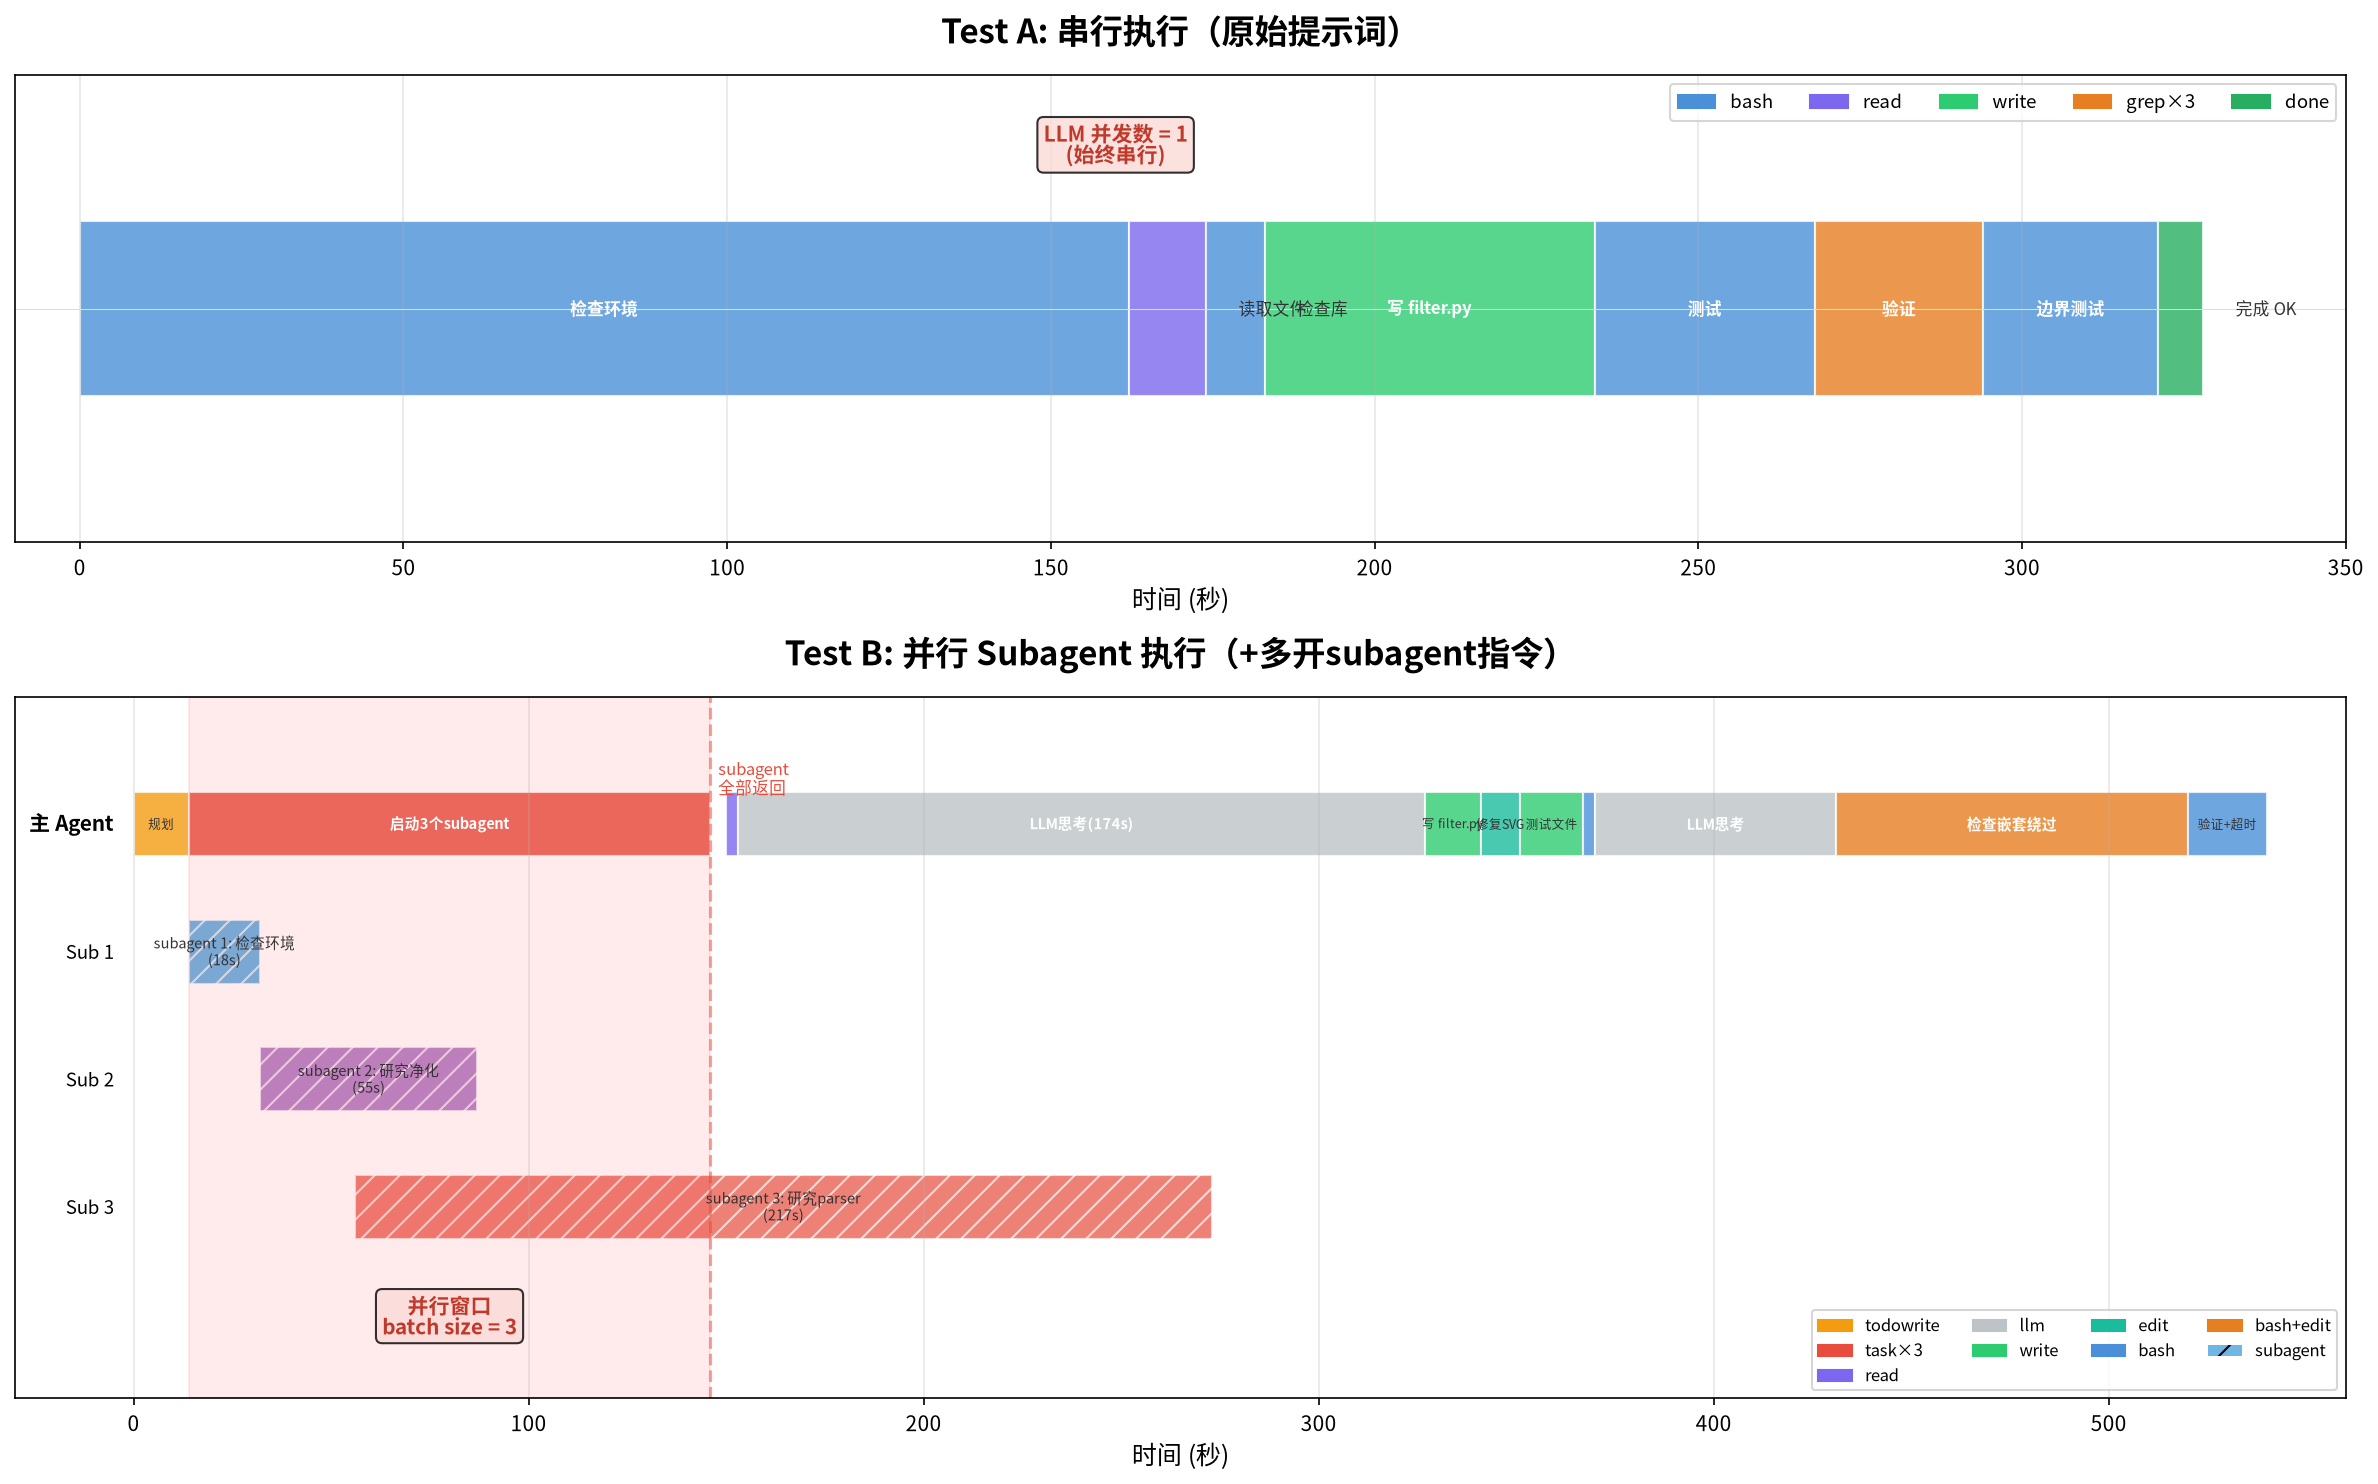
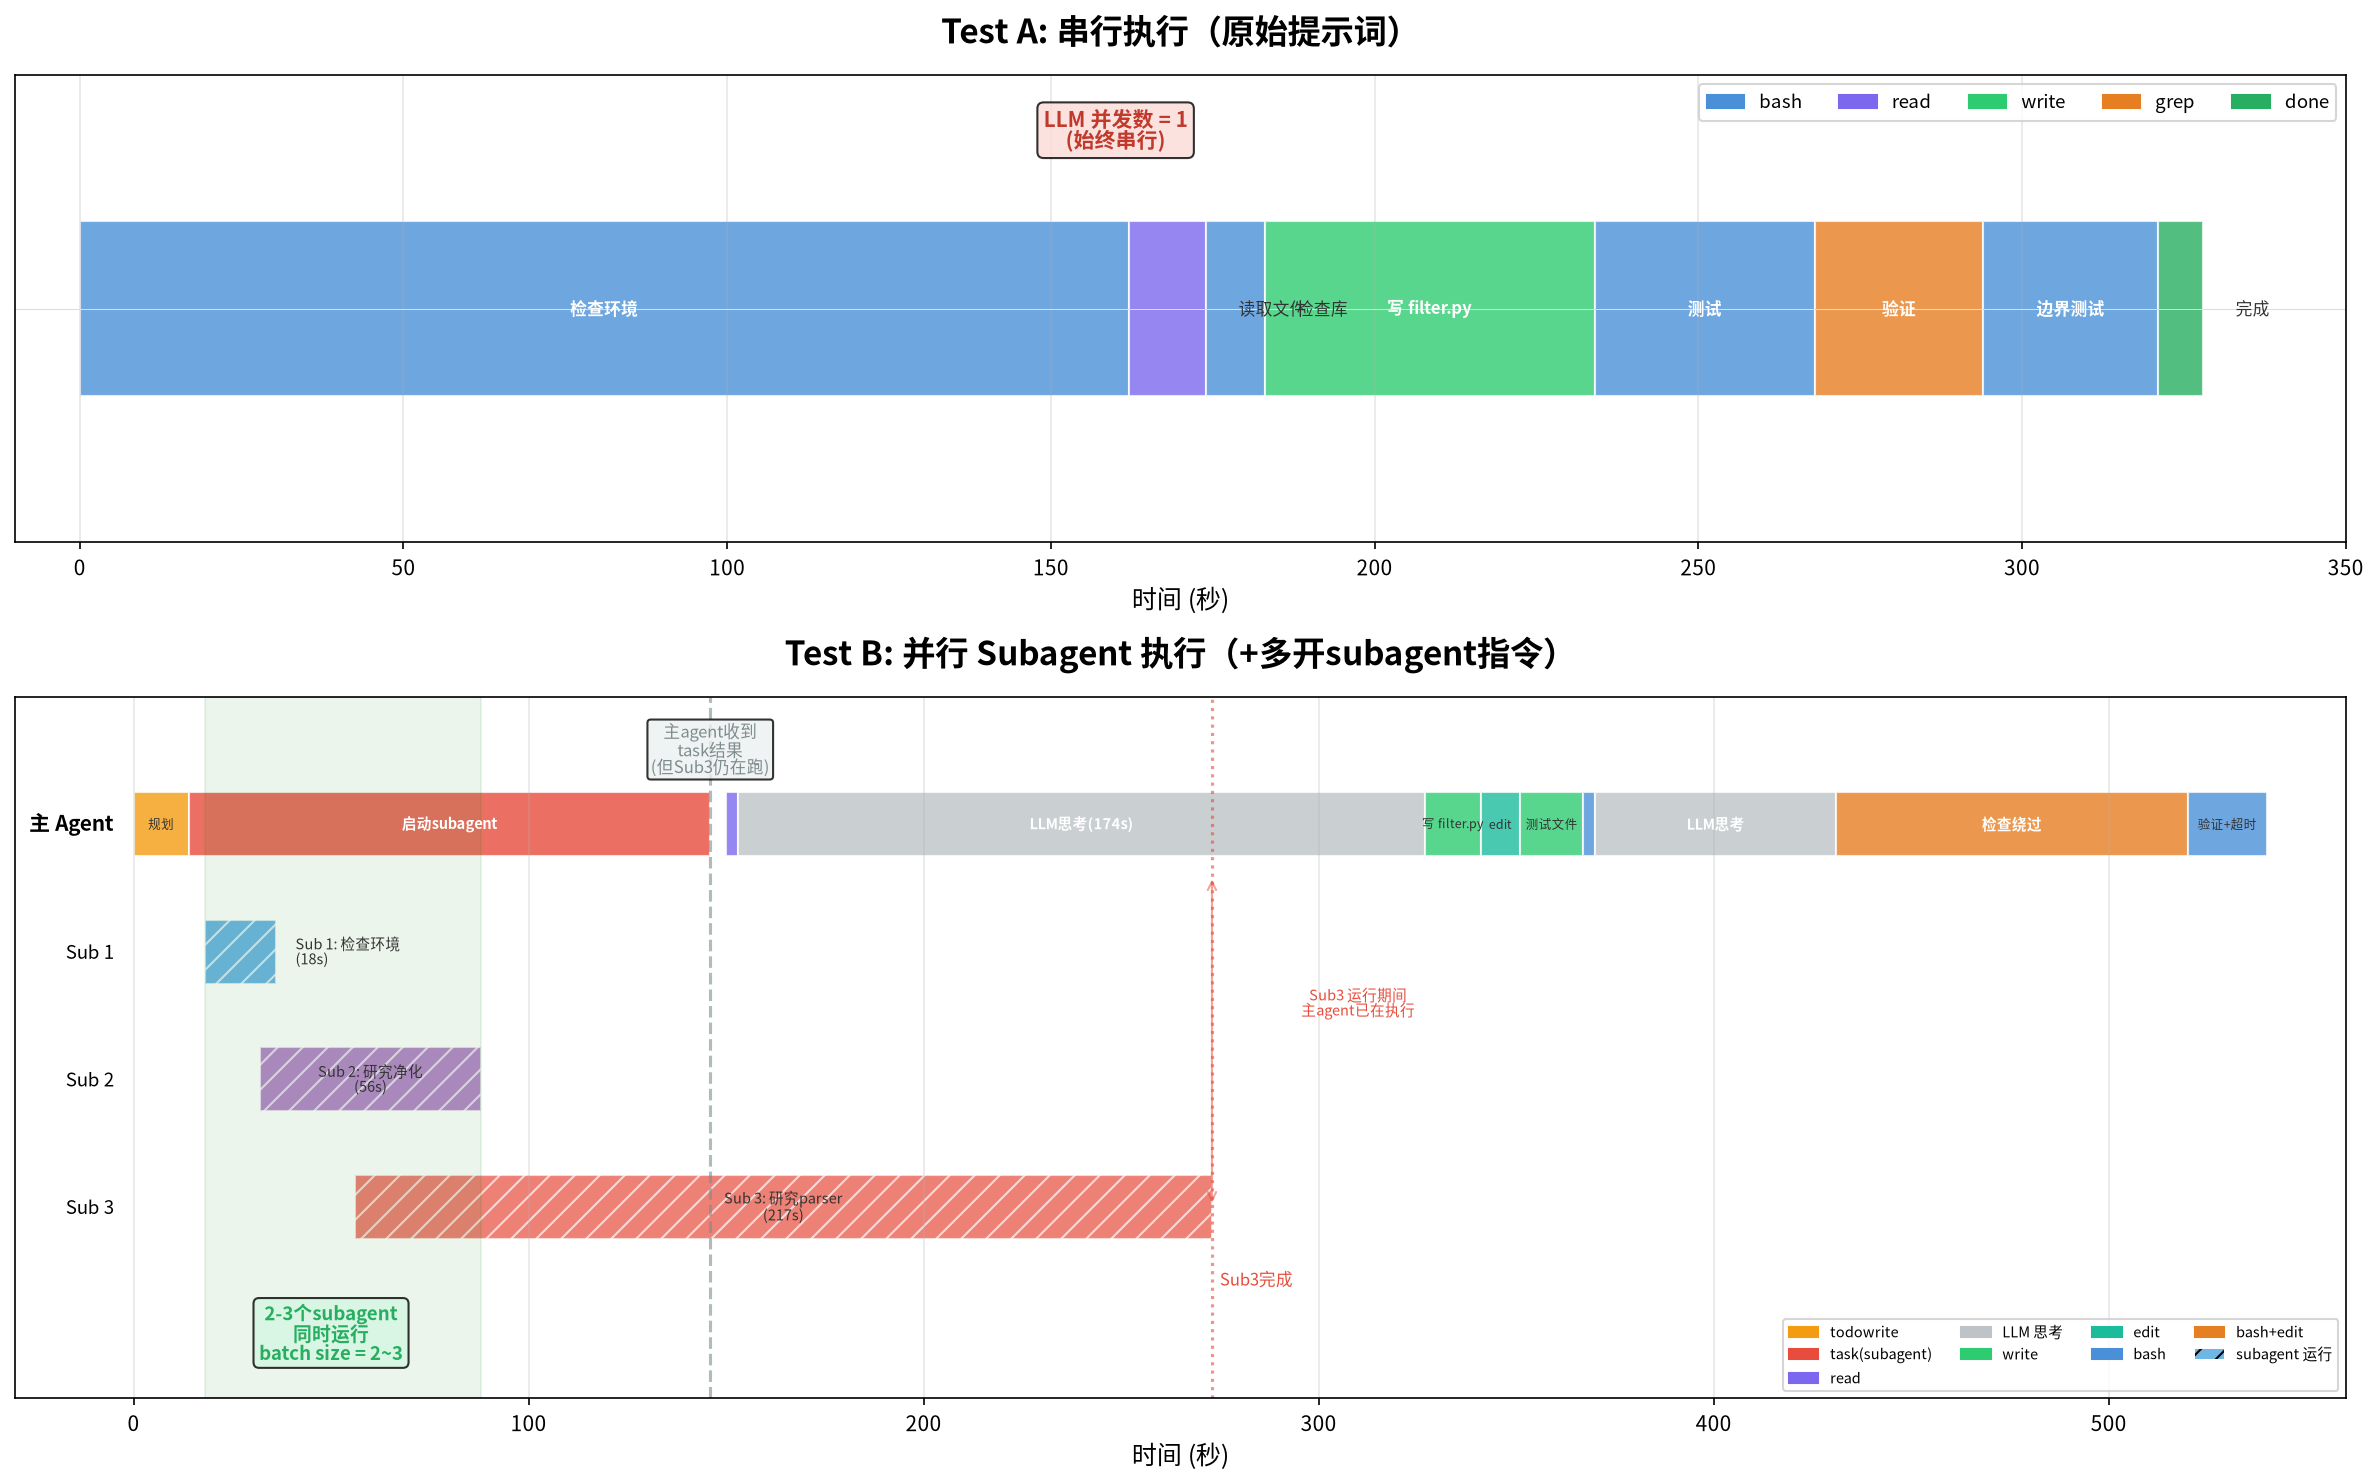
docs: fix timeline chart - correct subagent completion times and main agent overlap

diff --git a/docs/plot_timeline.py b/docs/plot_timeline.py
@@ -7,7 +7,6 @@ import matplotlib.pyplot as plt
 import matplotlib.patches as mpatches
 import numpy as np
 
-# 中文字体
 plt.rcParams['font.sans-serif'] = ['Noto Sans CJK SC', 'WenQuanYi Micro Hei', 'DejaVu Sans']
 plt.rcParams['axes.unicode_minus'] = False
 
@@ -18,35 +17,21 @@ fig, (ax1, ax2) = plt.subplots(2, 1, figsize=(16, 10), gridspec_kw={'height_rati
 # ============================================================
 ax1.set_title('Test A: 串行执行（原始提示词）', fontsize=16, fontweight='bold', pad=15)
 
-# Test A 实际数据 (时间点, 工具, 说明)
 test_a = [
-    (0, 162, 'bash', '检查环境'),
-    (162, 174, 'read', '读取文件'),
-    (174, 183, 'bash', '检查库'),
-    (183, 234, 'write', '写 filter.py'),
-    (234, 268, 'bash', '测试'),
-    (268, 294, 'grep×3', '验证'),
-    (294, 321, 'bash', '边界测试'),
-    (321, 328, 'done', '完成 OK'),
+    (0, 162, '#4A90D9', 'bash', '检查环境'),
+    (162, 174, '#7B68EE', 'read', '读取文件'),
+    (174, 183, '#4A90D9', 'bash', '检查库'),
+    (183, 234, '#2ECC71', 'write', '写 filter.py'),
+    (234, 268, '#4A90D9', 'bash', '测试'),
+    (268, 294, '#E67E22', 'grep', '验证'),
+    (294, 321, '#4A90D9', 'bash', '边界测试'),
+    (321, 328, '#27AE60', 'done', '完成'),
 ]
 
-colors_a = {
-    'bash': '#4A90D9',
-    'read': '#7B68EE',
-    'write': '#2ECC71',
-    'grep×3': '#E67E22',
-    'done': '#27AE60',
-}
-
 y_pos = 0
-for start, end, tool, desc in test_a:
-    color = colors_a.get(tool, '#888888')
+for start, end, color, tool, desc in test_a:
     width = end - start
-    if tool == 'done':
-        ax1.barh(y_pos, width, left=start, height=0.6, color=color, alpha=0.8, edgecolor='white')
-    else:
-        ax1.barh(y_pos, width, left=start, height=0.6, color=color, alpha=0.8, edgecolor='white')
-    # 标注
+    ax1.barh(y_pos, width, left=start, height=0.6, color=color, alpha=0.8, edgecolor='white')
     mid = (start + end) / 2
     if width > 15:
         ax1.text(mid, y_pos, desc, ha='center', va='center', fontsize=8, color='white', fontweight='bold')
@@ -60,13 +45,13 @@ ax1.set_yticks([])
 ax1.axhline(y=0, color='#ddd', linewidth=0.5)
 ax1.grid(axis='x', alpha=0.3)
 
-# 并发标注
-ax1.annotate('LLM 并发数 = 1\n(始终串行)', xy=(160, 0.5), fontsize=10,
+ax1.annotate('LLM 并发数 = 1\n(始终串行)', xy=(160, 0.55), fontsize=10,
             ha='center', color='#C0392B', fontweight='bold',
             bbox=dict(boxstyle='round,pad=0.3', facecolor='#FADBD8', alpha=0.8))
 
-# legend
-handles_a = [mpatches.Patch(color=c, label=t) for t, c in colors_a.items()]
+colors_a = ['#4A90D9', '#7B68EE', '#2ECC71', '#E67E22', '#27AE60']
+labels_a = ['bash', 'read', 'write', 'grep', 'done']
+handles_a = [mpatches.Patch(color=c, label=l) for c, l in zip(colors_a, labels_a)]
 ax1.legend(handles=handles_a, loc='upper right', fontsize=9, ncol=5)
 
 # ============================================================
@@ -74,47 +59,36 @@ ax1.legend(handles=handles_a, loc='upper right', fontsize=9, ncol=5)
 # ============================================================
 ax2.set_title('Test B: 并行 Subagent 执行（+多开subagent指令）', fontsize=16, fontweight='bold', pad=15)
 
-# 主 agent 步骤
+# 主 agent 步骤 (基于实际时间戳，基准 t=0)
 main_steps = [
-    (0, 14, 'todowrite', '规划'),
-    (14, 146, 'task×3', '启动3个subagent'),
-    (150, 153, 'read', '读取结果'),
-    (153, 327, 'llm', 'LLM思考(174s)'),
-    (327, 341, 'write', '写 filter.py'),
-    (341, 351, 'edit', '修复SVG'),
-    (351, 367, 'write', '测试文件'),
-    (367, 370, 'bash', '测试'),
-    (370, 431, 'llm', 'LLM思考'),
-    (431, 520, 'bash+edit', '检查嵌套绕过'),
-    (520, 540, 'bash', '验证+超时'),
+    (0, 14, '#F39C12', '规划'),
+    (14, 146, '#E74C3C', '启动subagent'),
+    (150, 153, '#7B68EE', 'read'),
+    (153, 327, '#BDC3C7', 'LLM思考(174s)'),
+    (327, 341, '#2ECC71', '写 filter.py'),
+    (341, 351, '#1ABC9C', 'edit'),
+    (351, 367, '#2ECC71', '测试文件'),
+    (367, 370, '#4A90D9', '测试'),
+    (370, 431, '#BDC3C7', 'LLM思考'),
+    (431, 520, '#E67E22', '检查绕过'),
+    (520, 540, '#4A90D9', '验证+超时'),
 ]
 
-# subagent 步骤 (y 不同)
+# Subagent 实际时间 (相对于 t=0 = 1785242578000)
+# sub1: t=18~36s  sub2: t=32~88s  sub3: t=56~273s
 subagents = [
-    ('subagent 1: 检查环境', 14, 32, '#3498DB', 1),
-    ('subagent 2: 研究净化', 32, 87, '#9B59B6', 2),
-    ('subagent 3: 研究parser', 56, 273, '#E74C3C', 3),
+    ('Sub 1: 检查环境', 18, 36, '#3498DB', 1),
+    ('Sub 2: 研究净化', 32, 88, '#9B59B6', 2),
+    ('Sub 3: 研究parser', 56, 273, '#E74C3C', 3),
 ]
-
-colors_b = {
-    'todowrite': '#F39C12',
-    'task×3': '#E74C3C',
-    'read': '#7B68EE',
-    'llm': '#BDC3C7',
-    'write': '#2ECC71',
-    'edit': '#1ABC9C',
-    'bash': '#4A90D9',
-    'bash+edit': '#E67E22',
-}
 
 # 画主 agent
 y_main = 0
-for start, end, tool, desc in main_steps:
-    color = colors_b.get(tool, '#888888')
+for start, end, color, desc in main_steps:
     width = end - start
     ax2.barh(y_main, width, left=start, height=0.5, color=color, alpha=0.8, edgecolor='white')
     mid = (start + end) / 2
-    if width > 20:
+    if width > 25:
         ax2.text(mid, y_main, desc, ha='center', va='center', fontsize=7, color='white', fontweight='bold')
     elif width > 8:
         ax2.text(mid, y_main, desc, ha='center', va='center', fontsize=6, color='#333')
@@ -126,18 +100,33 @@ for name, start, end, color, y in subagents:
     width = end - start
     ax2.barh(-y, width, left=start, height=0.5, color=color, alpha=0.7, edgecolor='white', hatch='//')
     mid = (start + end) / 2
-    ax2.text(mid, -y, f'{name}\n({width}s)', ha='center', va='center', fontsize=7, color='#333')
+    label = f'{name}\n({width}s)'
+    if width > 30:
+        ax2.text(mid, -y, label, ha='center', va='center', fontsize=7, color='#333')
+    else:
+        ax2.text(end + 5, -y, label, ha='left', va='center', fontsize=7, color='#333')
     ax2.text(-5, -y, f'Sub {y}', ha='right', va='center', fontsize=9)
 
-# 并行窗口标注
-ax2.axvspan(14, 146, alpha=0.08, color='red')
-ax2.annotate('并行窗口\nbatch size = 3', xy=(80, -4), fontsize=10,
-            ha='center', color='#C0392B', fontweight='bold',
-            bbox=dict(boxstyle='round,pad=0.3', facecolor='#FADBD8', alpha=0.8))
+# 并行窗口标注 (实际并行区域)
+ax2.axvspan(18, 88, alpha=0.08, color='green')
+ax2.annotate('2-3个subagent\n同时运行\nbatch size = 2~3', xy=(50, -4.2), fontsize=9,
+            ha='center', color='#27AE60', fontweight='bold',
+            bbox=dict(boxstyle='round,pad=0.3', facecolor='#D5F5E3', alpha=0.8))
 
-# subagent 返回点
-ax2.axvline(x=146, color='#E74C3C', linestyle='--', alpha=0.5)
-ax2.text(148, 0.5, 'subagent\n全部返回', fontsize=8, color='#E74C3C', va='top')
+# subagent 3 仍在运行时的主 agent 状态
+ax2.axvline(x=146, color='#7F8C8D', linestyle='--', alpha=0.6, linewidth=1.5)
+ax2.annotate('主agent收到\ntask结果\n(但Sub3仍在跑)', xy=(146, 0.4), fontsize=8,
+            ha='center', color='#7F8C8D',
+            bbox=dict(boxstyle='round,pad=0.2', facecolor='#ECF0F1', alpha=0.8))
+
+# Sub3 完成点
+ax2.axvline(x=273, color='#E74C3C', linestyle=':', alpha=0.6, linewidth=1.5)
+ax2.text(275, -3.5, 'Sub3完成', fontsize=8, color='#E74C3C', va='top')
+
+# Sub3 运行期间主 agent 的活动
+ax2.annotate('', xy=(273, -0.4), xytext=(273, -3),
+            arrowprops=dict(arrowstyle='<->', color='#E74C3C', alpha=0.5))
+ax2.text(310, -1.5, 'Sub3 运行期间\n主agent已在执行', fontsize=7, color='#E74C3C', ha='center')
 
 ax2.set_xlim(-30, 560)
 ax2.set_ylim(-4.5, 1)
@@ -145,10 +134,18 @@ ax2.set_xlabel('时间 (秒)', fontsize=12)
 ax2.set_yticks([])
 ax2.grid(axis='x', alpha=0.3)
 
-# legend
-handles_b = [mpatches.Patch(color=c, label=t) for t, c in colors_b.items()]
-handles_b.append(mpatches.Patch(facecolor='#3498DB', alpha=0.7, hatch='//', label='subagent'))
-ax2.legend(handles=handles_b, loc='lower right', fontsize=8, ncol=4)
+handles_b = [
+    mpatches.Patch(color='#F39C12', label='todowrite'),
+    mpatches.Patch(color='#E74C3C', label='task(subagent)'),
+    mpatches.Patch(color='#7B68EE', label='read'),
+    mpatches.Patch(color='#BDC3C7', label='LLM 思考'),
+    mpatches.Patch(color='#2ECC71', label='write'),
+    mpatches.Patch(color='#1ABC9C', label='edit'),
+    mpatches.Patch(color='#4A90D9', label='bash'),
+    mpatches.Patch(color='#E67E22', label='bash+edit'),
+    mpatches.Patch(facecolor='#3498DB', alpha=0.7, hatch='//', label='subagent 运行'),
+]
+ax2.legend(handles=handles_b, loc='lower right', fontsize=7, ncol=4)
 
 plt.tight_layout()
 output_path = '/home/shanhaizhibian/amd-strix-halo/docs/opencode-timeline-comparison.png'
